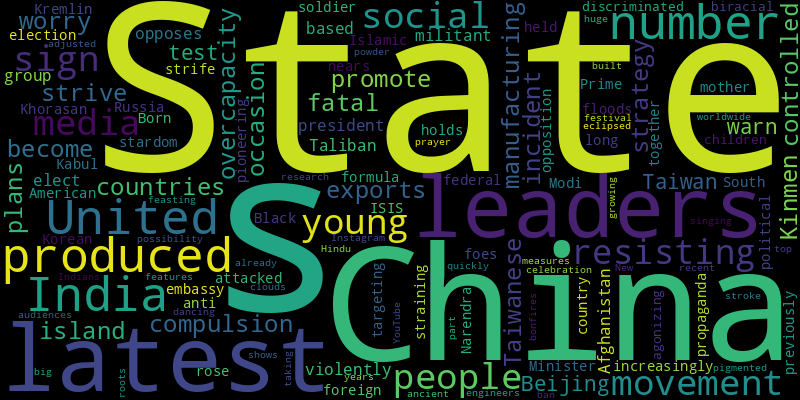
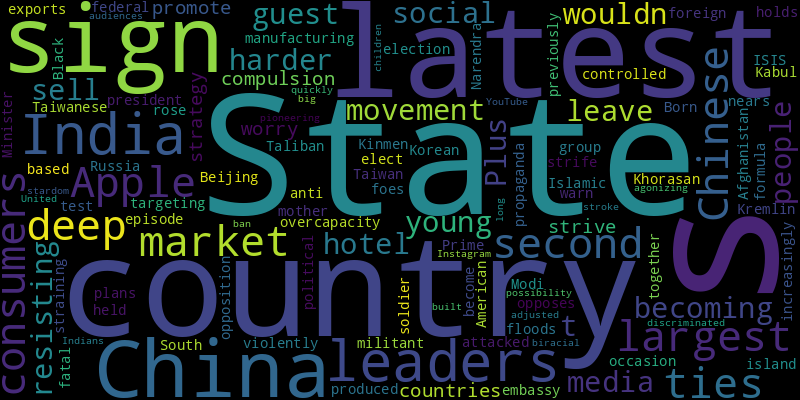
chore(bot): 👿 auto commit

diff --git a/README.md b/README.md
@@ -2,41 +2,41 @@
 Auto RSS New York Times and Generate Word Cloud
 
 ## New York Times Global News
+* Israel and the Biden administration have increasingly clashed over the high civilian death toll in Gaza and Israel’s plans for a ground offensive in the southern city of Rafah, where displaced people have fled.
+* The evacuees make up only a tiny fraction of the thousands of civilians, including many children, who have suffered grievous injuries over the course of Israel’s monthslong campaign against Hamas and its bombardment of Gaza.
+* The Islamic State has long threatened to strike Russia for helping the Syrian president, Bashar al-Assad, stay in control.
+* The online frenzy over Catherine’s health escalated despite a reserved approach by Fleet Street — which promptly blamed Americans for the furor.
+* Valter Longo, who wants to live to a healthy 120 or 130, sees the key to longevity in diet — legumes and fish — and faux fasting.
 * An investigation into the sugar-cane industry in the Indian state of Maharashtra found workers ensnared by debt and pushed into child marriages and unnecessary hysterectomies.
-* The top opposition politician, Ousmane Sonko, is barred from running. So Sunday’s poll is widely seen as a choice between his handpicked candidate and the departing president’s designated successor.
-* A struggle for a position held by Ukrainian forces in the eastern city of Avdiivka underlines how the conflict is increasingly being fought in close-quarter combat.
-* American officials attribute Friday’s attack in a Moscow suburb, which killed at least 133 people, to a branch of the Islamic State active in Iran and Afghanistan.
-* Islamic State Khorasan, or ISIS-K, previously attacked Russia’s embassy in Kabul and has produced floods of anti-Kremlin propaganda.
-* “They know they can’t control the online world,” one expert on the royal family said about the recent spate of revelations about the health of Catherine and King Charles III.
-* As an election nears, political strife between Prime Minister Narendra Modi and opposition-held states is straining the federal formula that holds India together.
-* Many expressed compassion for Catherine, Princess of Wales, a woman who has spent much of the past two decades with every aspect of her life scrutinized.
-* Indebted workers, facing brutal working conditions, are pushed to get hysterectomies as a treatment for routine ailments. Sugar mills disclaim responsibility.
-* In a visit to the Rafah border crossing, Secretary General António Guterres called for an immediate cease-fire and expressed solidarity with Palestinians in the territory.
+* Pope Francis’ choice to skip the strenuous speech at the outset of Easter week immediately raised concerns about his health, but he spoke in a clear voice before and after it.
+* Two politicians were arrested in the assassination of a rival, Marielle Franco, who was known for fighting corruption and police violence.
+* The top opposition politician, Ousmane Sonko, is barred from running. So Sunday’s vote is widely seen as a choice between his handpicked candidate and the departing president’s designated successor.
+* For the few Israelis remaining in the evacuated zone along the northern border with Lebanon, the simmering conflict there has become intensely personal.
 
 ![Global](./global.png)
 ## New York Times United States News
-* Faculty members in public universities could be disciplined or fired, even those with tenure, if they are found to fall short of the new requirements.
-* To heal after a mass shooting, the Covenant School families have turned to therapy, faith, one another — and a lot of dogs.
-* In government and as an outsider, Kenneth Marcus has tried to douse what he says is rising bias against Jews. Some see a crackdown on pro-Palestinian speech.
+* Her work looked at how race and power are experienced in America. In 2022, she filed a lawsuit saying that the appraisal of her home was undervalued because of bias.
 * Autonomous taxis have arrived in the nation’s second most populous city. Some Angelenos aren’t ready to go driverless.
-* Four years later, the shadow of the pandemic continues to play a profound role in voters’ pessimism and distrust amid a presidential rematch.
-* Mr. Angelos, who built a fortune as a class-action lawyer, endeared himself to fans by investing in free agents to bolster the team.
-* Philadelphia had its wettest day ever recorded in March, forecasters said. Hundreds of thousands of residents in several states lost power.
-* At the site of the 2018 school shooting in Florida, the vice president announced federal help for states to limit weapon access for people deemed to be threats.
-* The Barkley Marathons, which features cryptic rules for entry, requires runners to complete 100 miles of rugged terrain in Tennessee under 60 hours.
-* The president signed a $1.2 trillion spending package that passed early on Saturday morning, narrowly avoiding a shutdown.
+* In government and as an outsider, Kenneth Marcus has tried to douse what he says is rising bias against Jews. Some see a crackdown on pro-Palestinian speech.
+* Often called “the world’s smallest mountain range,” the Sutter Buttes are an unlikely and beloved landmark in one of the flattest parts of the state.
+* President Biden has called for $5 trillion in new taxes on corporations and high earners. But his record so far is as a net tax cutter.
+* Pvt. Albert King, shot dead by a white military police officer in Georgia in 1941, was blamed for his own death and buried in an unmarked grave.
+* A bill that would add people who don’t hunt to the Vermont Fish and Wildlife Board has stirred an outcry in a state known for both progressive politics and rural traditions.
+* More than a year into her term, Mayor Karen Bass has cleared encampments and moved thousands of people into motels. What happens next is unclear.
+* She came to the United States fleeing her abuser. When child welfare got involved, she risked losing her son forever.
+* The Islamic State in Khorasan is active in Afghanistan, Pakistan and Iran and has set its sights on Europe and beyond.
 
 ![US](./usnews.png)
 ## New York Times Asia News
+* Apple has deep ties in the country, its second-largest market. But there are signs that Chinese consumers are becoming a harder sell.
+* Plus, the hotel guest who wouldn’t leave.
 * The social media movement is the latest sign that some of China’s young people are resisting the compulsion to strive.
 * As China’s leaders promote their strategy, other countries worry about manufacturing overcapacity and plans for more exports.
-* A fatal incident off Kinmen, a Taiwanese-controlled island, has become the latest occasion for Beijing to warn and test Taiwan’s president-elect.
+* A fatal episode off Kinmen, a Taiwanese-controlled island, has become the latest occasion for Beijing to warn and test Taiwan’s president-elect.
 * The militant group violently opposes the Taliban leaders of Afghanistan, where it is based. It is increasingly targeting foreign foes.
 * Islamic State Khorasan, or ISIS-K, previously attacked Russia’s embassy in Kabul and has produced floods of anti-Kremlin propaganda.
 * As an election nears, political strife between Prime Minister Narendra Modi and opposition-held states is straining the federal formula that holds India together.
 * Born to a South Korean mother and a Black American soldier, she rose to a pioneering stardom in a country that has long discriminated against biracial children.
 * The United States is agonizing over the possibility of a ban, but India did it at a stroke. Indians adjusted quickly, and Instagram and YouTube built big audiences.
-* The ancient festival has Hindu roots, but growing numbers worldwide are taking part in the celebration, which features bonfires, singing, dancing, prayer, feasting and clouds of pigmented powder.
-* China has produced a huge number of top A.I. engineers in recent years. New research shows that, by some measures, it has already eclipsed the United States.
 
 ![Asian](./asian.png)
